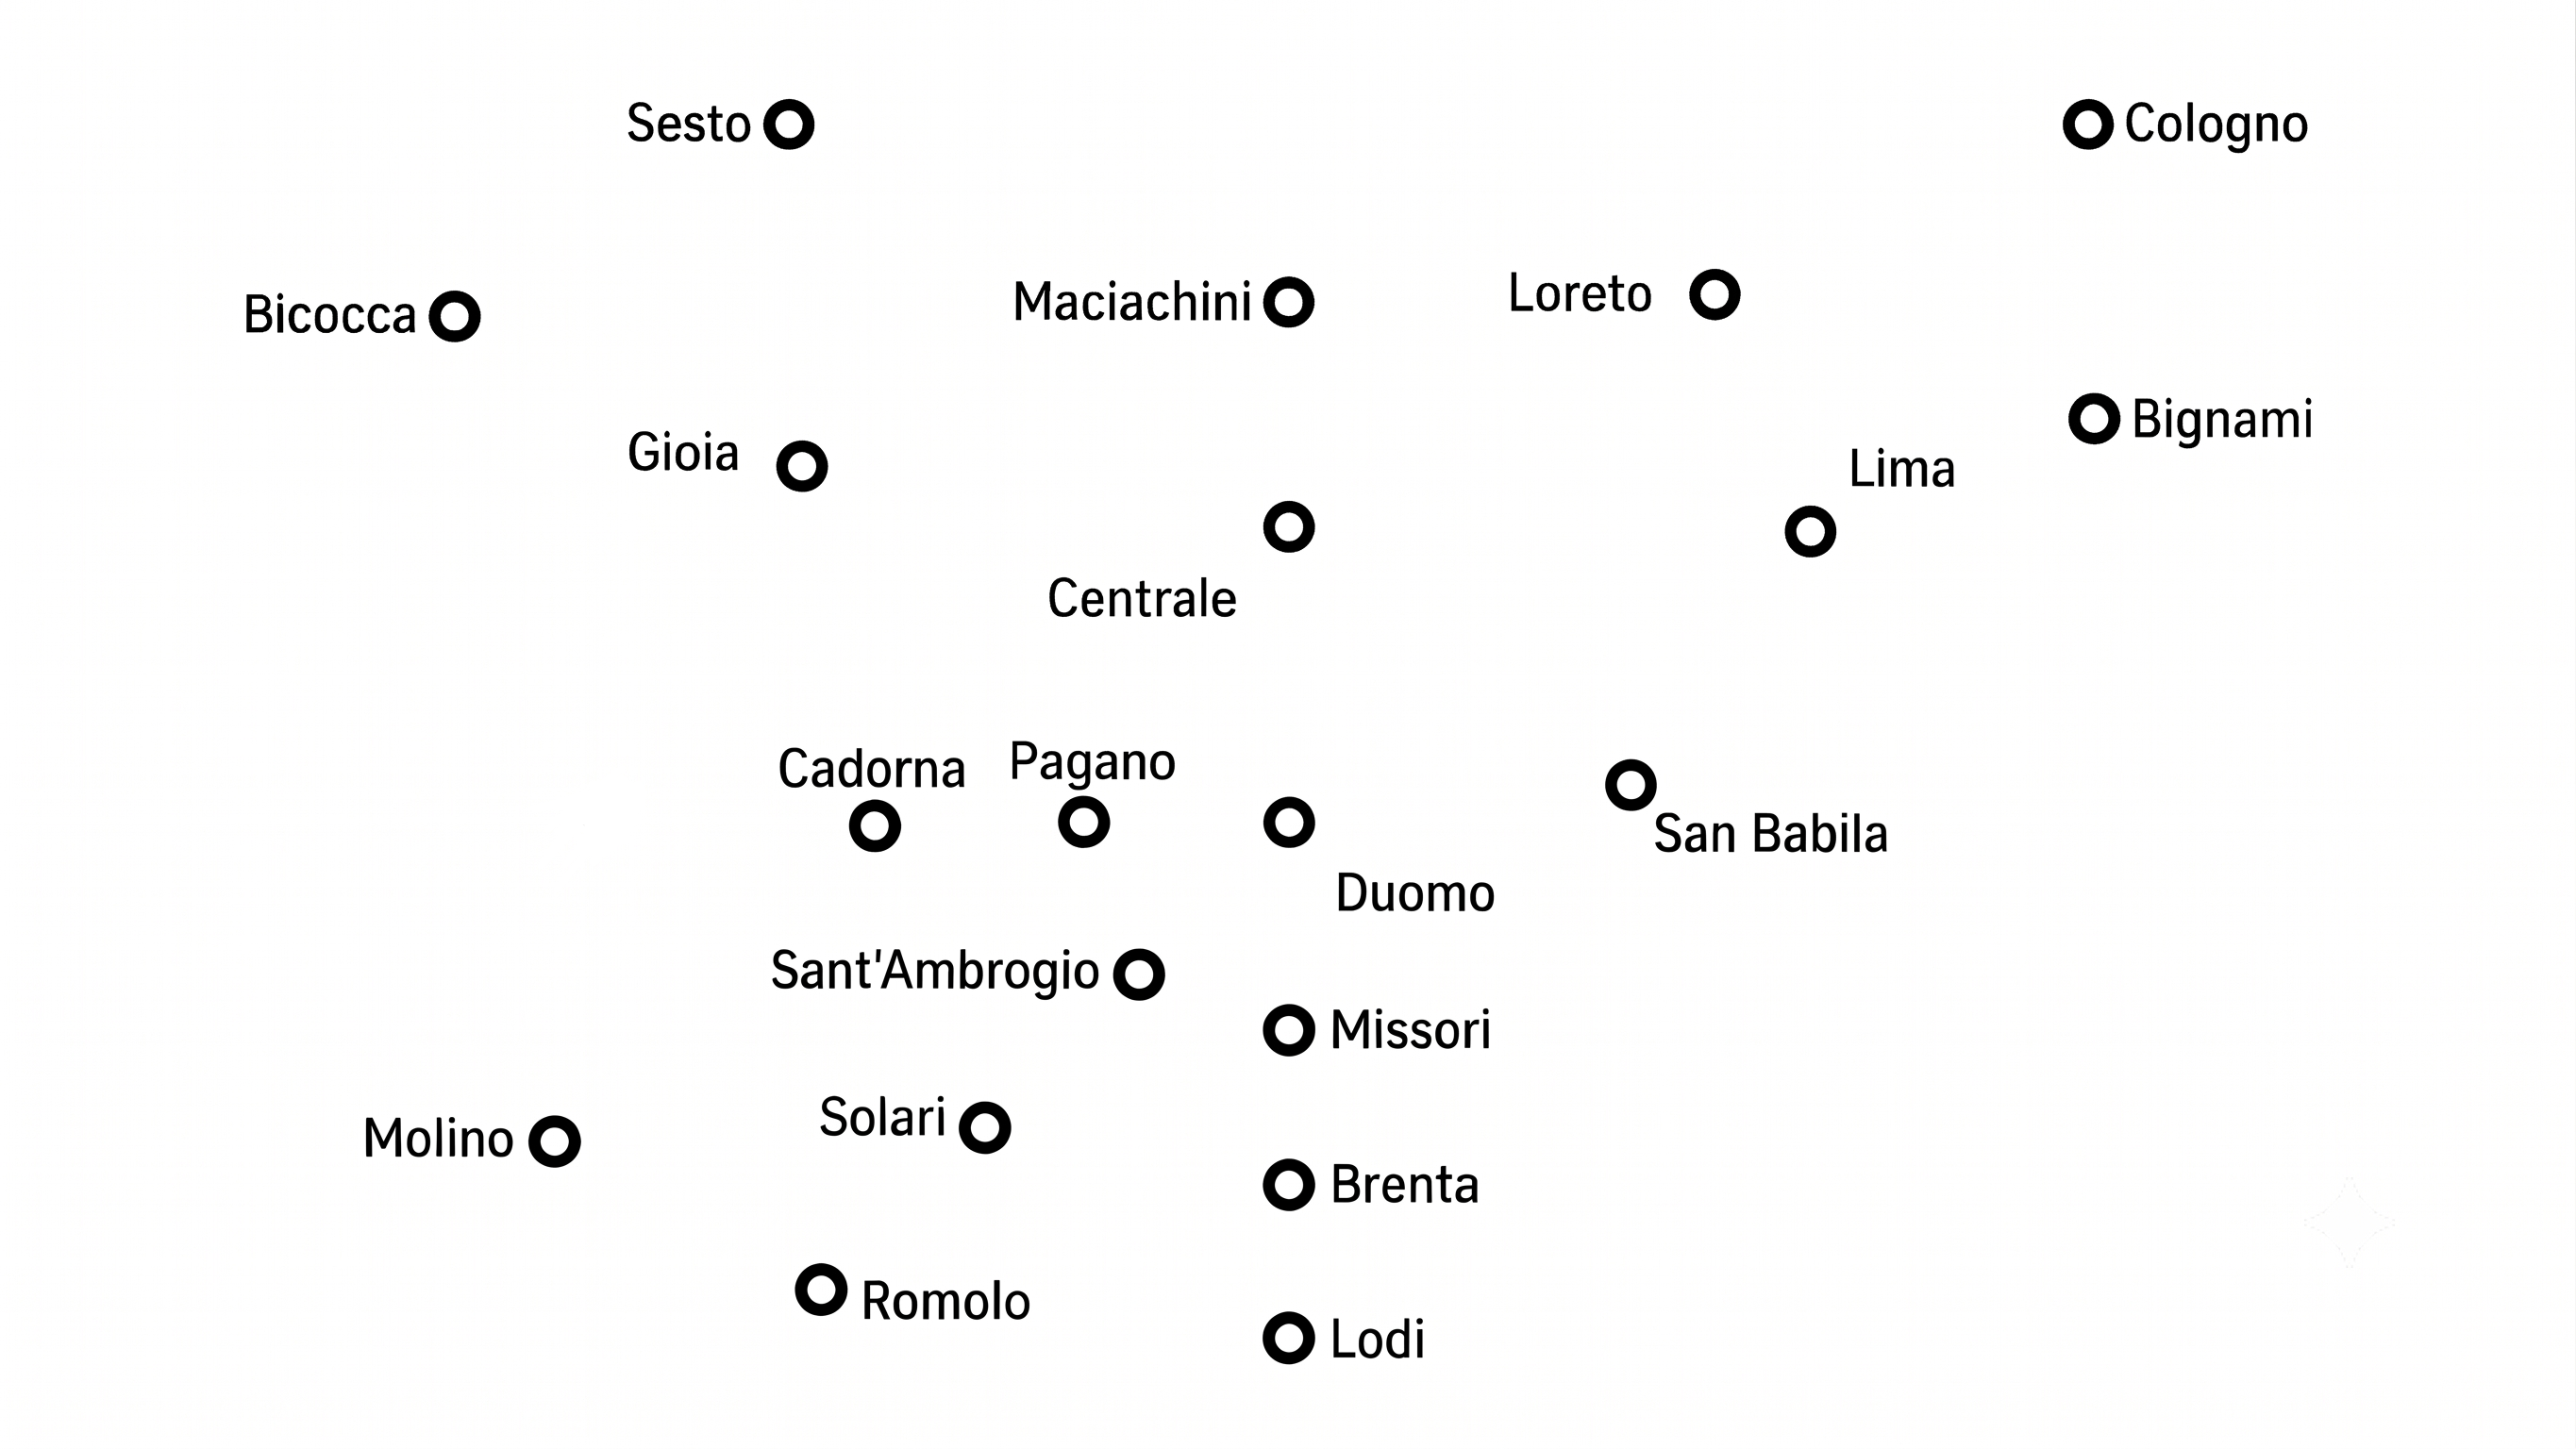
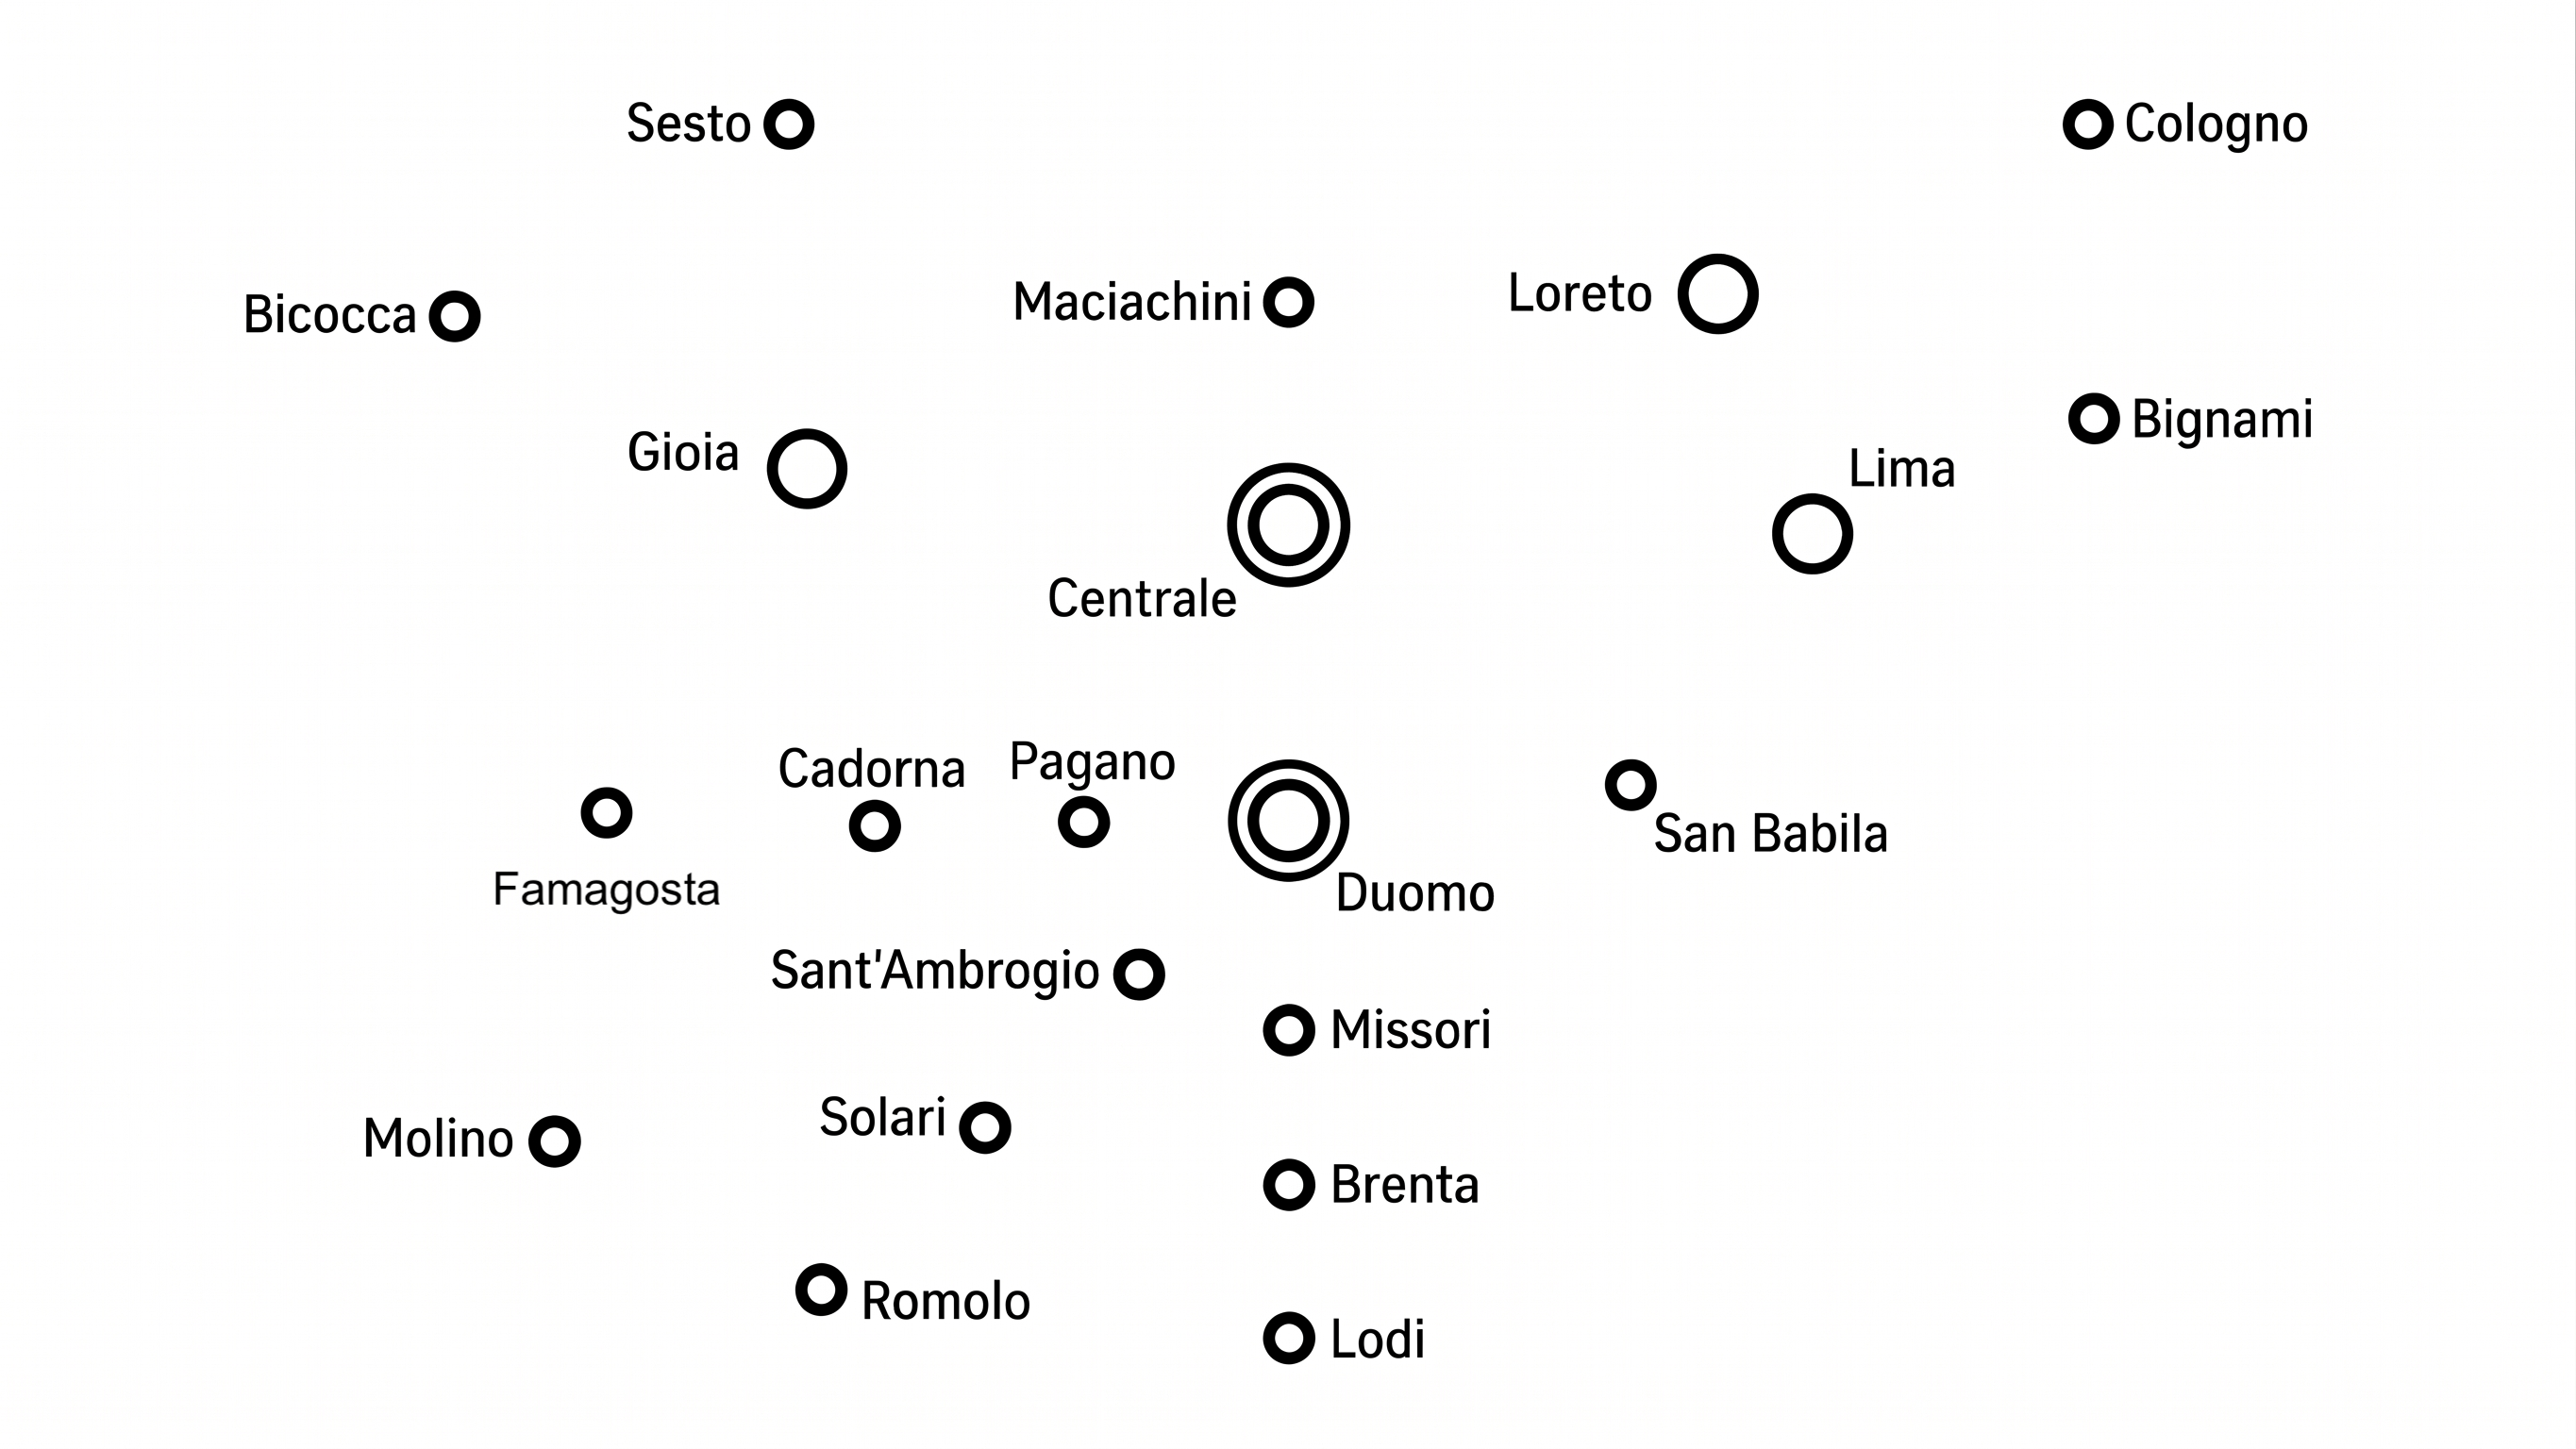
map images updated

diff --git a/client/src/pages/InstructionsPage.jsx b/client/src/pages/InstructionsPage.jsx
@@ -40,7 +40,7 @@ function InstructionsPage() {
                                 </ListGroup.Item>
                                 <ListGroup.Item className="d-flex gap-3 align-items-start py-3">
                                     <Badge bg="warning" text="dark" style={{ minWidth: '24px', height: '24px', display: 'flex', alignItems: 'center', justifyContent: 'center', borderRadius: '50%' }}>2</Badge>
-                                    <div><strong>Planning:</strong> 90 seconds to build your route. Lines hidden — memory only!</div>
+                                    <div><strong>Planning:</strong> 90 seconds to build your route. Lines hidden memory only!</div>
                                 </ListGroup.Item>
                                 <ListGroup.Item className="d-flex gap-3 align-items-start py-3">
                                     <Badge bg="info" style={{ minWidth: '24px', height: '24px', display: 'flex', alignItems: 'center', justifyContent: 'center', borderRadius: '50%' }}>3</Badge>